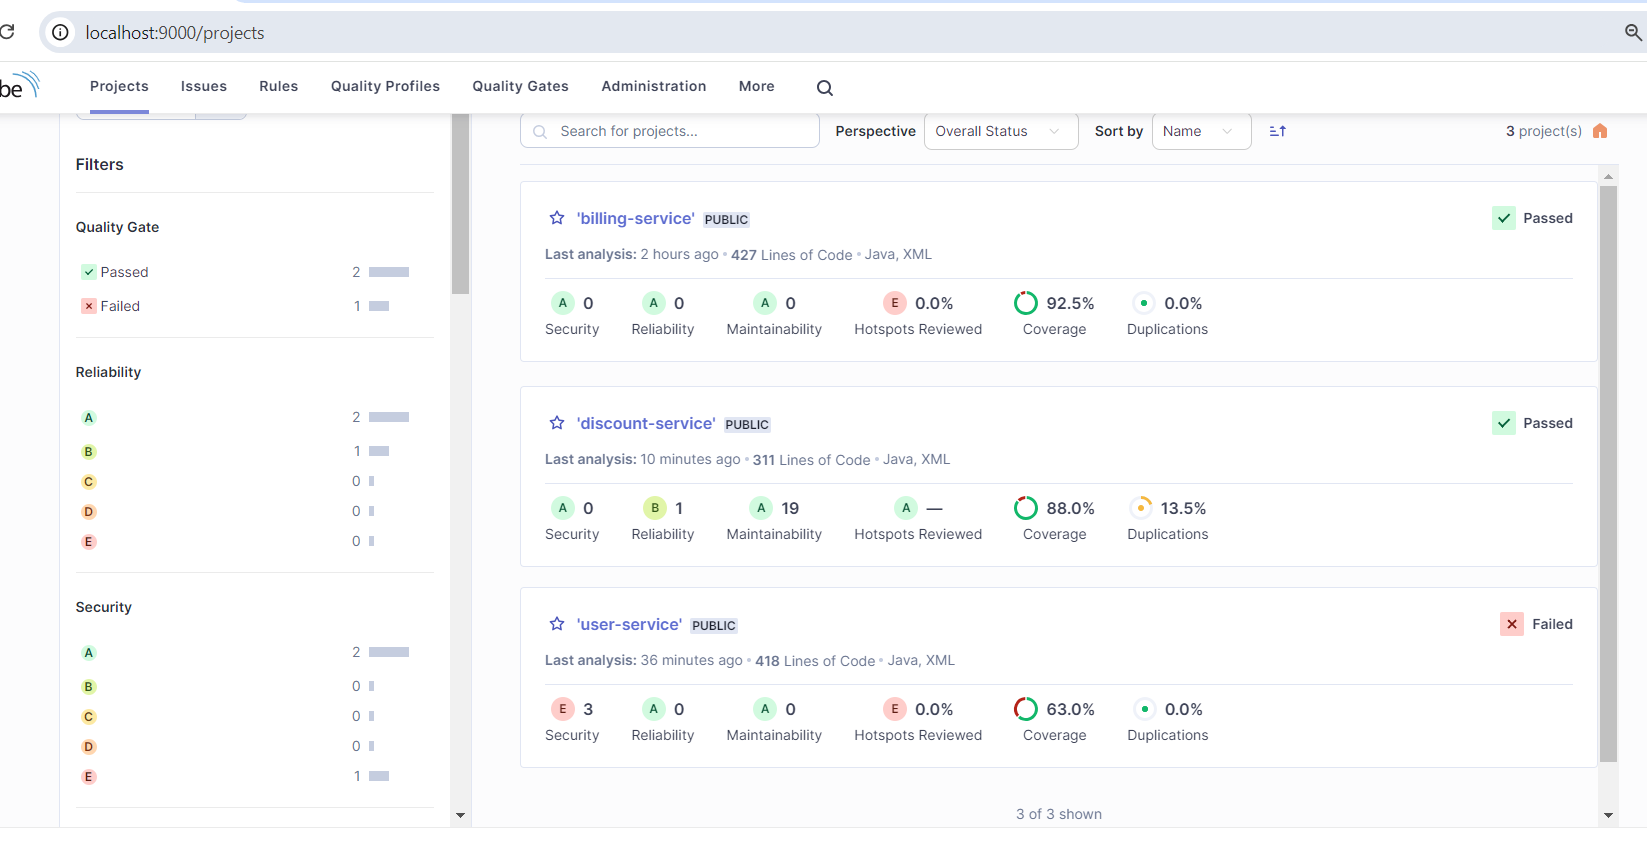
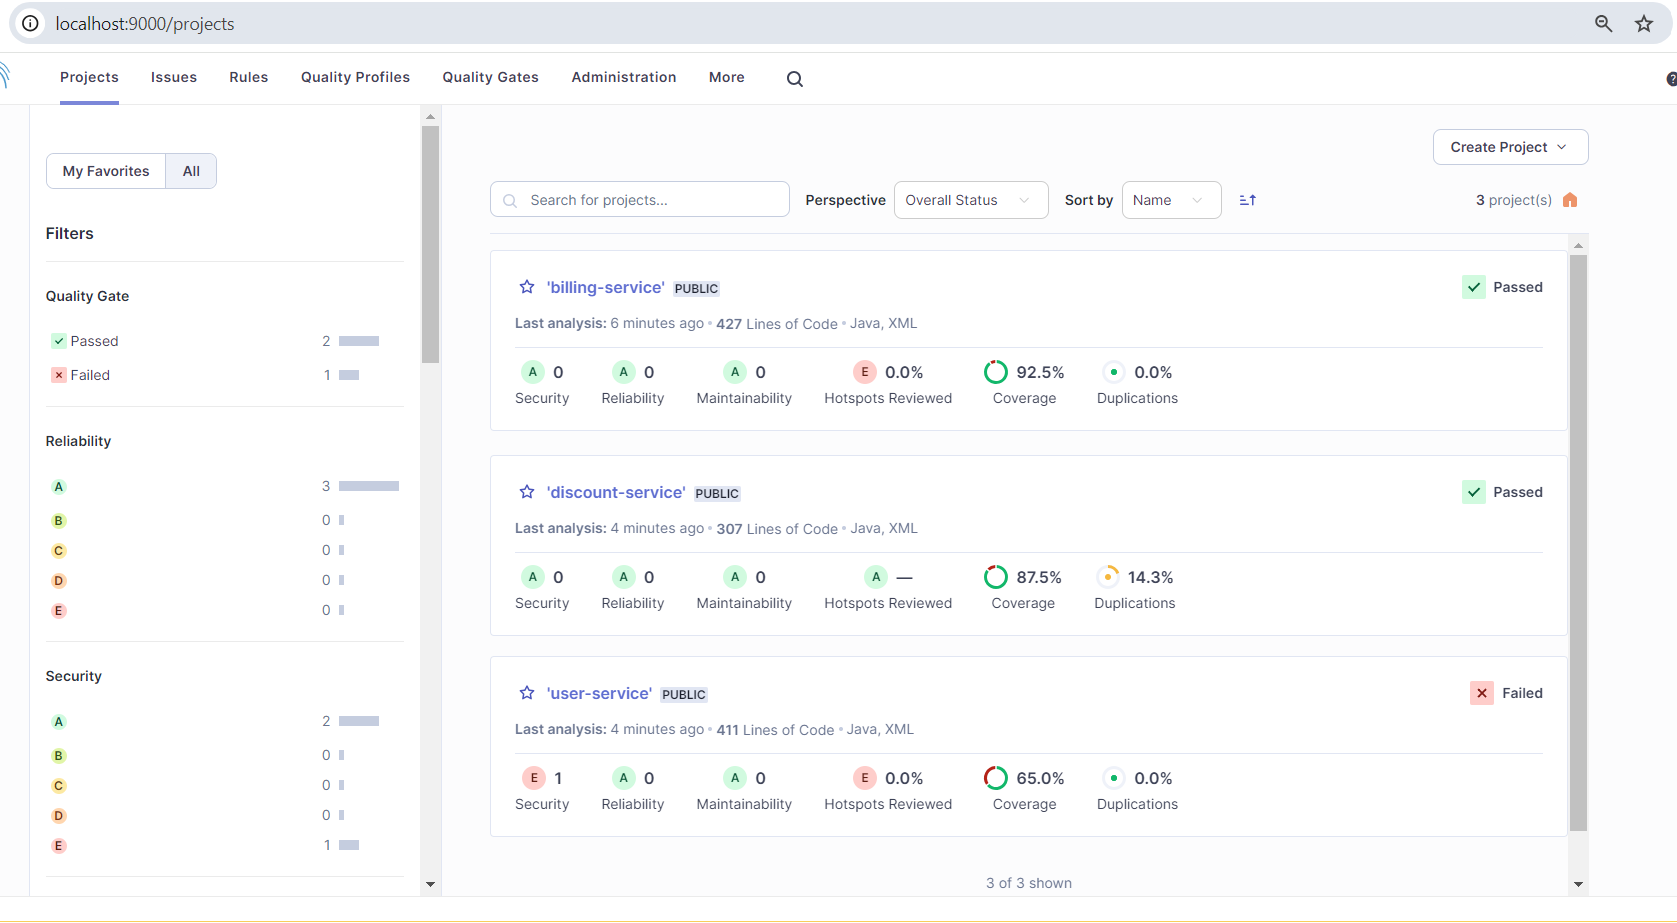
quality improvements

diff --git a/discount-service/src/test/java/com/mckinsey/controllers/DiscountControllerTest.java b/discount-service/src/test/java/com/mckinsey/controllers/DiscountControllerTest.java
@@ -19,47 +19,43 @@ import org.springframework.boot.test.context.SpringBootTest;
 import org.springframework.http.MediaType;
 import org.springframework.test.web.servlet.MockMvc;
 
-import com.McKinsey.Controllers.DiscountController;
-import com.McKinsey.dtos.Item;
-import com.McKinsey.services.DiscountService;
 import com.fasterxml.jackson.databind.ObjectMapper;
+import com.mckinsey.dtos.Item;
+import com.mckinsey.services.DiscountService;
 
 @SpringBootTest
 @AutoConfigureMockMvc
-public class DiscountControllerTest {
+class DiscountControllerTest {
 
-    @Autowired
-    private MockMvc mockMvc;
+	@Autowired
+	private MockMvc mockMvc;
 
-    @Mock
-    private DiscountService discountService;
+	@Mock
+	private DiscountService discountService;
 
-    @InjectMocks
-    private DiscountController discountController;
+	@InjectMocks
+	private DiscountController discountController;
 
-    @Autowired
-    private ObjectMapper objectMapper;
+	@Autowired
+	private ObjectMapper objectMapper;
 
-    @BeforeEach
-    public void setUp() {
-        MockitoAnnotations.openMocks(this);
-    }
+	@BeforeEach
+	void setUp() {
+		MockitoAnnotations.openMocks(this);
+	}
 
-    @Test
-    public void testGetDiscountedAmount() throws Exception {
-        List<Item> items = Arrays.asList(new Item("item1", "",100.0), new Item("item2", "", 200.0));
-        String userType = "regular";
-        int tenure = 5;
-        double discountedAmount = 270.0;
+	@Test
+	void testGetDiscountedAmount() throws Exception {
+		List<Item> items = Arrays.asList(new Item("item1", "", 100.0), new Item("item2", "", 200.0));
+		String userType = "regular";
+		int tenure = 5;
+		double discountedAmount = 270.0;
 
-        when(discountService.calculateDiscountedAmount(items, userType, tenure)).thenReturn(discountedAmount);
+		when(discountService.calculateDiscountedAmount(items, userType, tenure)).thenReturn(discountedAmount);
 
-        mockMvc.perform(post("/discount")
-                .contentType(MediaType.APPLICATION_JSON)
-                .content(objectMapper.writeValueAsString(items))
-                .param("userType", userType)
-                .param("tenure", String.valueOf(tenure)))
-                .andExpect(status().isOk())
-                .andExpect(jsonPath("$.disCountedAmount").value(discountedAmount));
-    }
+		mockMvc.perform(post("/discount").contentType(MediaType.APPLICATION_JSON)
+				.content(objectMapper.writeValueAsString(items)).param("userType", userType)
+				.param("tenure", String.valueOf(tenure))).andExpect(status().isOk())
+				.andExpect(jsonPath("$.disCountedAmount").value(discountedAmount));
+	}
 }

diff --git a/discount-service/src/main/java/com/McKinsey/services/DiscountService.java b/discount-service/src/main/java/com/McKinsey/services/DiscountService.java
@@ -1,4 +1,4 @@
-package com.McKinsey.services;
+package com.mckinsey.services;
 
 import java.util.List;
 import java.util.stream.Collectors;
@@ -7,40 +7,35 @@ import org.slf4j.Logger;
 import org.slf4j.LoggerFactory;
 import org.springframework.stereotype.Service;
 
-import com.McKinsey.discounthandler.AffiliateDiscountHandler;
-import com.McKinsey.discounthandler.CustomerDiscountHandler;
-import com.McKinsey.discounthandler.DiscountHandler;
-import com.McKinsey.discounthandler.EmployeeDiscountHandler;
-import com.McKinsey.discounthandler.HundredDollarDiscountHandler;
-import com.McKinsey.dtos.Item;
+import com.mckinsey.discounthandler.AffiliateDiscountHandler;
+import com.mckinsey.discounthandler.CustomerDiscountHandler;
+import com.mckinsey.discounthandler.DiscountHandler;
+import com.mckinsey.discounthandler.EmployeeDiscountHandler;
+import com.mckinsey.discounthandler.HundredDollarDiscountHandler;
+import com.mckinsey.dtos.Item;
 
 @Service
 public class DiscountService {
-	
+
 	Logger logger = LoggerFactory.getLogger(DiscountService.class);
 
-	
-	public double calculateDiscountedAmount(List<Item> items, String userType,  int tenure) {
-		
+	public double calculateDiscountedAmount(List<Item> items, String userType, int tenure) {
+
 		DiscountHandler employeeDiscount = new EmployeeDiscountHandler();
 		DiscountHandler affinityDiscount = new AffiliateDiscountHandler();
 		DiscountHandler customerDiscount = new CustomerDiscountHandler(tenure);
 		DiscountHandler hunDiscountHandler = new HundredDollarDiscountHandler();
-		
-		
+
 		hunDiscountHandler.setNextHandler(employeeDiscount);
 		employeeDiscount.setNextHandler(affinityDiscount);
 		affinityDiscount.setNextHandler(customerDiscount);
 		customerDiscount.setNextHandler(null);
-		
-		double totalAmount = items.stream().map(item -> {
-			return item.getPrice();
-		}).collect(Collectors.summingDouble(v -> v));
-		
+
+		double totalAmount = items.stream().map(item -> item.getPrice()).collect(Collectors.summingDouble(v -> v));
+
 		double totalDiscount = hunDiscountHandler.applyDiscount(items, userType);
 		logger.info("Total discount: {}", totalDiscount);
 		return totalAmount - totalDiscount;
-		
-		
+
 	}
 }

diff --git a/discount-service/src/test/java/com/mckinsey/services/DiscountServiceTest.java b/discount-service/src/test/java/com/mckinsey/services/DiscountServiceTest.java
@@ -1,7 +1,5 @@
 package com.mckinsey.services;
 
-
-
 import static org.junit.jupiter.api.Assertions.assertEquals;
 
 import java.util.Arrays;
@@ -12,42 +10,34 @@ import org.junit.jupiter.api.Test;
 import org.mockito.InjectMocks;
 import org.mockito.MockitoAnnotations;
 
-import com.McKinsey.dtos.Item;
-import com.McKinsey.services.DiscountService;
+import com.mckinsey.dtos.Item;
 
-public class DiscountServiceTest {
+class DiscountServiceTest {
 
-    @InjectMocks
-    private DiscountService discountService;
+	@InjectMocks
+	private DiscountService discountService;
 
-    @BeforeEach
-    public void setUp() {
-        MockitoAnnotations.openMocks(this);
-    }
+	@BeforeEach
+	void setUp() {
+		MockitoAnnotations.openMocks(this);
+	}
 
-   
+	@Test
+	void testCalculateDiscountedAmount() {
+		List<Item> items = Arrays.asList(new Item("item1", "cloth", 100.0), new Item("item2", "grocery", 200.0));
+		int tenure = 5;
 
-    @Test
-    public void testCalculateDiscountedAmount() {
-        List<Item> items = Arrays.asList(
-            new Item("item1", "cloth", 100.0),
-            new Item("item2", "grocery", 200.0)
-        );
-        int tenure = 5;
-       
+		double empDiscountedAmount = discountService.calculateDiscountedAmount(items, "employee", tenure);
 
-        double empDiscountedAmount = discountService.calculateDiscountedAmount(items, "employee", tenure);
+		assertEquals(255.0, empDiscountedAmount);
 
-        assertEquals(255.0, empDiscountedAmount);
+		double affiDiscountedAmount = discountService.calculateDiscountedAmount(items, "affiliate", tenure);
 
-        double affiDiscountedAmount = discountService.calculateDiscountedAmount(items, "affiliate", tenure);
+		assertEquals(275.0, affiDiscountedAmount);
 
-        assertEquals(275.0, affiDiscountedAmount);
-        
-        double regularDiscountedAmount = discountService.calculateDiscountedAmount(items, "regular", tenure);
+		double regularDiscountedAmount = discountService.calculateDiscountedAmount(items, "regular", tenure);
 
-        assertEquals(280.0, regularDiscountedAmount);
-        
-    }
+		assertEquals(280.0, regularDiscountedAmount);
+
+	}
 }
-

diff --git a/user-service/src/test/java/com/mckinsey/exception/GlobalExceptionHandlerTest.java b/user-service/src/test/java/com/mckinsey/exception/GlobalExceptionHandlerTest.java
@@ -1,0 +1,36 @@
+package com.mckinsey.exception;
+
+import static org.junit.jupiter.api.Assertions.assertEquals;
+import static org.mockito.Mockito.mock;
+
+import java.time.LocalDateTime;
+import java.util.Map;
+
+import org.junit.jupiter.api.BeforeEach;
+import org.junit.jupiter.api.Test;
+import org.springframework.http.HttpStatus;
+import org.springframework.http.ResponseEntity;
+import org.springframework.web.context.request.WebRequest;
+
+class GlobalExceptionHandlerTest {
+
+    private GlobalExceptionHandler globalExceptionHandler;
+
+    @BeforeEach
+    public void setUp() {
+        globalExceptionHandler = new GlobalExceptionHandler();
+    }
+
+    @Test
+    void testHandleException() {
+        AppException appException = new AppException("Test exception message");
+        WebRequest webRequest = mock(WebRequest.class);
+
+        ResponseEntity<Map<String, Object>> responseEntity = globalExceptionHandler.handleException(appException, webRequest);
+
+        assertEquals(HttpStatus.BAD_REQUEST, responseEntity.getStatusCode());
+        assertEquals("Failed", responseEntity.getBody().get("status"));
+        assertEquals("Test exception message", responseEntity.getBody().get("message"));
+        assertEquals(LocalDateTime.class, responseEntity.getBody().get("timestamp").getClass());
+    }
+}

diff --git a/discount-service/src/main/java/com/McKinsey/Controllers/DiscountController.java b/discount-service/src/main/java/com/McKinsey/Controllers/DiscountController.java
@@ -1,4 +1,4 @@
-package com.McKinsey.Controllers;
+package com.mckinsey.controllers;
 
 import java.util.HashMap;
 import java.util.List;
@@ -12,8 +12,8 @@ import org.springframework.web.bind.annotation.RequestMapping;
 import org.springframework.web.bind.annotation.RequestParam;
 import org.springframework.web.bind.annotation.RestController;
 
-import com.McKinsey.dtos.Item;
-import com.McKinsey.services.DiscountService;
+import com.mckinsey.dtos.Item;
+import com.mckinsey.services.DiscountService;
 
 @RestController
 @RequestMapping("/discount")
@@ -28,12 +28,12 @@ public class DiscountController {
 	@PostMapping
 	public ResponseEntity<Map<String, Double>> getDiscountedAmount(@RequestBody List<Item> items,
 			@RequestParam String userType, @RequestParam int tenure) {
-		Map<String, Double> response = new HashMap<String, Double>();
+		Map<String, Double> response = new HashMap<>();
 
 		double disCountedAmount = discountService.calculateDiscountedAmount(items, userType, tenure);
 
 		response.put("disCountedAmount", disCountedAmount);
-		return new ResponseEntity<Map<String, Double>>(response, HttpStatus.OK);
+		return new ResponseEntity<>(response, HttpStatus.OK);
 	}
 
 }

diff --git a/discount-service/src/main/java/com/McKinsey/discounthandler/HundredDollarDiscountHandler.java b/discount-service/src/main/java/com/McKinsey/discounthandler/HundredDollarDiscountHandler.java
@@ -1,4 +1,4 @@
-package com.McKinsey.discounthandler;
+package com.mckinsey.discounthandler;
 
 import java.util.List;
 import java.util.stream.Collectors;
@@ -6,7 +6,7 @@ import java.util.stream.Collectors;
 import org.slf4j.Logger;
 import org.slf4j.LoggerFactory;
 
-import com.McKinsey.dtos.Item;
+import com.mckinsey.dtos.Item;
 
 public class HundredDollarDiscountHandler implements DiscountHandler {
 
@@ -22,11 +22,9 @@ public class HundredDollarDiscountHandler implements DiscountHandler {
 	@Override
 	public double applyDiscount(List<Item> items, String role) {
 
-		double totalAmount = items.stream().map(item -> {
-			return item.getPrice();
-		}).collect(Collectors.summingDouble(v -> v));
+		double totalAmount = items.stream().map(item -> item.getPrice()).collect(Collectors.summingDouble(v -> v));
 
-		double discount = (int) (totalAmount / 100) * 5;
+		double discount = (totalAmount / 100) * 5;
 
 		logger.info("Every Hundred total discount: {}", discount);
 

diff --git a/user-service/src/main/java/com/mckinsey/service/UserService.java b/user-service/src/main/java/com/mckinsey/service/UserService.java
@@ -21,24 +21,16 @@ public class UserService implements UserDetailsService {
 	private final UserRepository userRepository;
 	private final PasswordEncoder passwordEncoder;
 	private final JwtUtil jwtUtil;
+	private static final String APP_USR = "hridesh";
+	
 	
 	// Load initial user
 	@PostConstruct
 	public void createUsers() {
 		User employee = new User();
-		employee.setUsername("hridesh");
-		employee.setPassword(passwordEncoder.encode("hridesh"));
+		employee.setUsername(APP_USR);
+		employee.setPassword(passwordEncoder.encode(APP_USR));
 		userRepository.save(employee);
-		
-		User affiliate = new User();
-		affiliate.setUsername("kumar");
-		affiliate.setPassword(passwordEncoder.encode("kumar"));
-		userRepository.save(affiliate);
-		
-		User customer = new User();
-		customer.setUsername("customer");
-		customer.setPassword(passwordEncoder.encode("customer"));
-		userRepository.save(customer);
 		
 	}
 	

diff --git a/discount-service/src/main/java/com/McKinsey/discounthandler/AffiliateDiscountHandler.java b/discount-service/src/main/java/com/McKinsey/discounthandler/AffiliateDiscountHandler.java
@@ -1,4 +1,4 @@
-package com.McKinsey.discounthandler;
+package com.mckinsey.discounthandler;
 
 import java.util.List;
 import java.util.stream.Collectors;
@@ -6,7 +6,7 @@ import java.util.stream.Collectors;
 import org.slf4j.Logger;
 import org.slf4j.LoggerFactory;
 
-import com.McKinsey.dtos.Item;
+import com.mckinsey.dtos.Item;
 
 public class AffiliateDiscountHandler implements DiscountHandler{
 

diff --git a/discount-service/src/main/java/com/McKinsey/discounthandler/CustomerDiscountHandler.java b/discount-service/src/main/java/com/McKinsey/discounthandler/CustomerDiscountHandler.java
@@ -1,4 +1,4 @@
-package com.McKinsey.discounthandler;
+package com.mckinsey.discounthandler;
 
 import java.util.List;
 import java.util.stream.Collectors;
@@ -6,7 +6,7 @@ import java.util.stream.Collectors;
 import org.slf4j.Logger;
 import org.slf4j.LoggerFactory;
 
-import com.McKinsey.dtos.Item;
+import com.mckinsey.dtos.Item;
 
 public class CustomerDiscountHandler implements DiscountHandler {
 

diff --git a/discount-service/src/main/java/com/McKinsey/discounthandler/EmployeeDiscountHandler.java b/discount-service/src/main/java/com/McKinsey/discounthandler/EmployeeDiscountHandler.java
@@ -1,4 +1,4 @@
-package com.McKinsey.discounthandler;
+package com.mckinsey.discounthandler;
 
 import java.util.List;
 import java.util.stream.Collectors;
@@ -6,7 +6,7 @@ import java.util.stream.Collectors;
 import org.slf4j.Logger;
 import org.slf4j.LoggerFactory;
 
-import com.McKinsey.dtos.Item;
+import com.mckinsey.dtos.Item;
 
 public class EmployeeDiscountHandler implements DiscountHandler {
 

diff --git a/discount-service/src/main/java/com/McKinsey/discounthandler/DiscountHandler.java b/discount-service/src/main/java/com/McKinsey/discounthandler/DiscountHandler.java
@@ -1,8 +1,8 @@
-package com.McKinsey.discounthandler;
+package com.mckinsey.discounthandler;
 
 import java.util.List;
 
-import com.McKinsey.dtos.Item;
+import com.mckinsey.dtos.Item;
 
 
 

diff --git a/discount-service/src/main/java/com/McKinsey/DiscountServiceApplication.java b/discount-service/src/main/java/com/McKinsey/DiscountServiceApplication.java
@@ -1,4 +1,4 @@
-package com.McKinsey;
+package com.mckinsey;
 
 import org.springframework.boot.SpringApplication;
 import org.springframework.boot.autoconfigure.SpringBootApplication;
